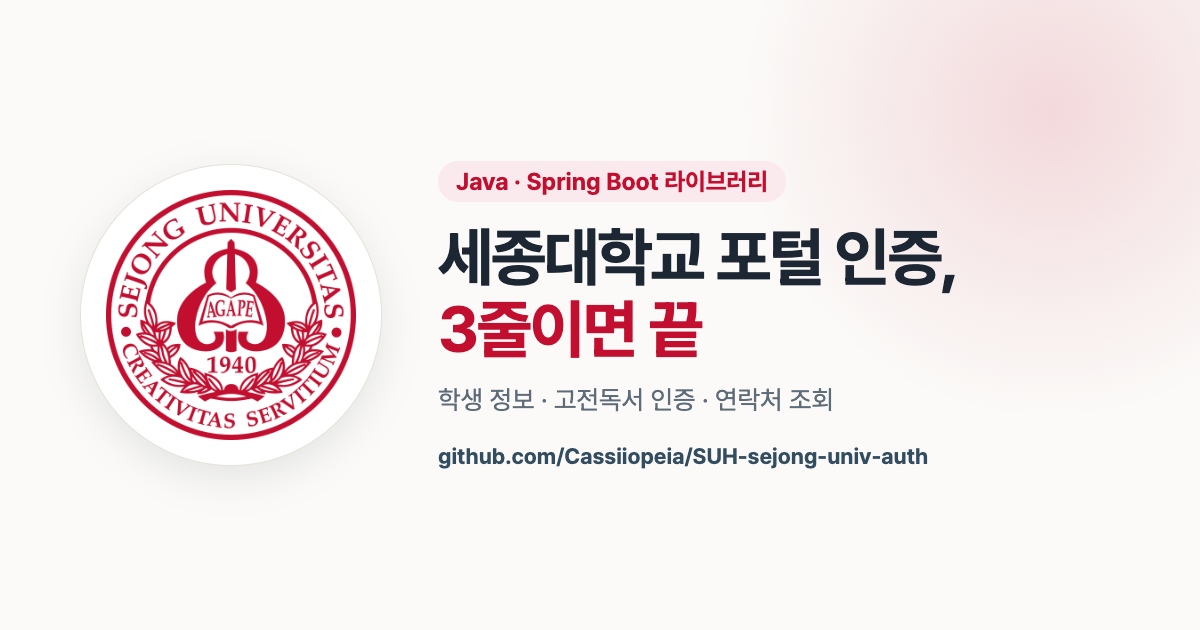
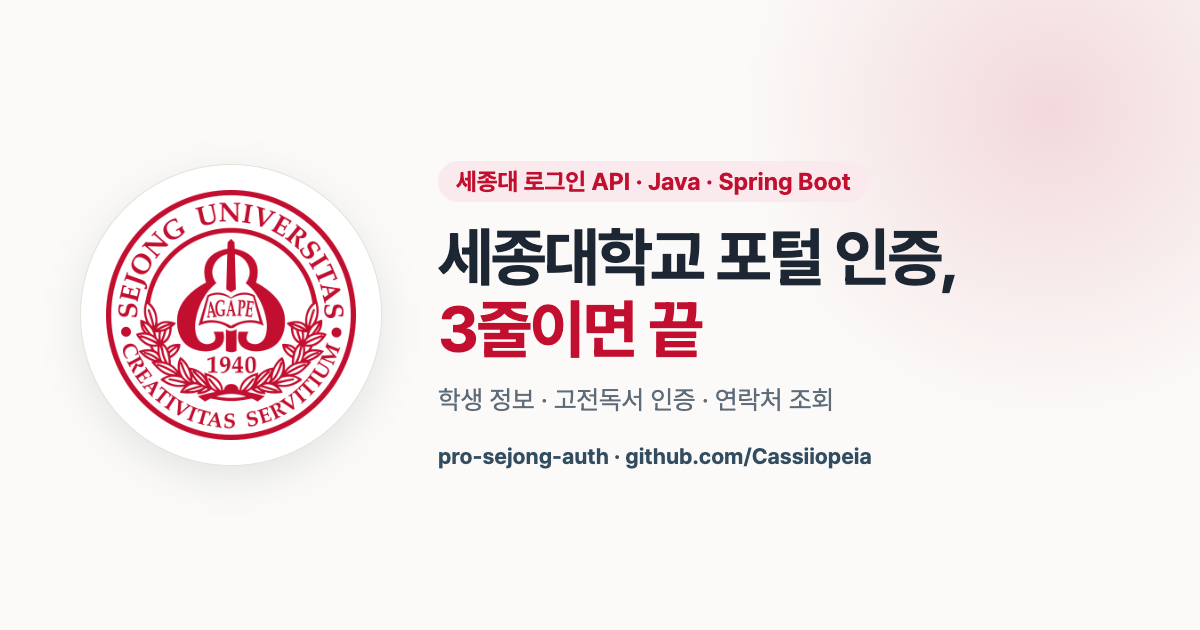
레포 이름 pro-sejong-auth 로 변경과 SEO 정비 : docs : 레포 주소·Pages 주소 갱신, README 제목에 세종대 로그인 API 검색어 반영, 공유 이미지 재생성, POM url/scm 갱신 https://github.com/Cassiiopeia/pro-sejong-auth/issues/22

Changed region(s): [[0.37, 0.6937, 0.7708, 0.754], [0.37, 0.2714, 0.7092, 0.3016]]

diff --git a/SECURITY.md b/SECURITY.md
@@ -12,8 +12,8 @@ Only the latest released version (see the Nexus badge in the [README](README.md)
 
 **Do not open a public issue.** Report privately through GitHub:
 
-1. Go to the [Security tab](https://github.com/Cassiiopeia/SUH-sejong-univ-auth/security) of this repository
-2. Click **Report a vulnerability** ([direct link](https://github.com/Cassiiopeia/SUH-sejong-univ-auth/security/advisories/new))
+1. Go to the [Security tab](https://github.com/Cassiiopeia/pro-sejong-auth/security) of this repository
+2. Click **Report a vulnerability** ([direct link](https://github.com/Cassiiopeia/pro-sejong-auth/security/advisories/new))
 3. Describe the issue, affected version and steps to reproduce
 
 Never include real student IDs, passwords or other personal data in a report. Use placeholders.
@@ -33,7 +33,7 @@ Out of scope: vulnerabilities in the Sejong University portal itself. Report tho
 이 라이브러리는 세종대 포털 비밀번호를 다루므로 보안 제보를 중요하게 처리합니다.
 
 - **지원 버전**: 가장 최근 배포 버전만 보안 수정을 받습니다.
-- **신고 방법**: 공개 이슈로 올리지 말고 이 레포의 [Security 탭](https://github.com/Cassiiopeia/SUH-sejong-univ-auth/security)에서 **Report a vulnerability**([바로가기](https://github.com/Cassiiopeia/SUH-sejong-univ-auth/security/advisories/new))로 비공개 신고해 주세요. 영향 버전과 재현 방법을 적어 주세요.
+- **신고 방법**: 공개 이슈로 올리지 말고 이 레포의 [Security 탭](https://github.com/Cassiiopeia/pro-sejong-auth/security)에서 **Report a vulnerability**([바로가기](https://github.com/Cassiiopeia/pro-sejong-auth/security/advisories/new))로 비공개 신고해 주세요. 영향 버전과 재현 방법을 적어 주세요.
 - 실제 학번, 비밀번호, 개인정보는 절대 넣지 말고 예시값을 쓰세요.
 - 7일 안에 첫 답변을 드립니다. 수정이 배포되면 제보자를 밝혀 공지합니다(원하면 익명).
 - **범위**: 이 라이브러리 코드(로그, 예외, 결과를 통한 비밀번호나 개인정보 노출, 안전하지 않은 TLS 처리, 호출 간 세션 혼선 등). 세종대 포털 자체의 취약점은 학교에 신고해 주세요.

diff --git a/README.md b/README.md
@@ -2,9 +2,11 @@
 
 <img src="docs/assets/sejong-seal.png" alt="Sejong University seal" width="120">
 
-# SUH Sejong Univ Auth
+# pro-sejong-auth
 
-**Sejong University portal authentication for Spring Boot, in three lines of Java**
+**Sejong University login API for Java and Spring Boot: verify students in three lines**
+
+<sub>세종대 로그인 API · 세종대학교 포털 인증 · 학번 인증 라이브러리</sub>
 
 English | [한국어](README.ko.md)
 
@@ -16,7 +18,7 @@ English | [한국어](README.ko.md)
 [![Spring Boot](https://img.shields.io/badge/Spring%20Boot-3.x-324D60)](https://spring.io/projects/spring-boot)
 [![License: MIT](https://img.shields.io/badge/License-MIT-324D60)](LICENSE)
 
-### [▶ Try it live in your browser](https://cassiiopeia.github.io/SUH-sejong-univ-auth/#demo)
+### [▶ Try it live in your browser](https://cassiiopeia.github.io/pro-sejong-auth/#demo)
 
 </div>
 
@@ -33,7 +35,7 @@ result.getMajor();   // "컴퓨터공학과"
 ```
 
 <p align="center">
-  <a href="https://cassiiopeia.github.io/SUH-sejong-univ-auth/#demo">
+  <a href="https://cassiiopeia.github.io/pro-sejong-auth/#demo">
     <img src="docs/assets/demo-en-dark.png" alt="Live authentication demo on the project page" width="820">
   </a>
   <br>
@@ -241,8 +243,8 @@ No. It is a personal open-source project by a Sejong student and is not affiliat
 <details>
 <summary><b>Authentication suddenly fails</b></summary>
 
-Try the [demo](https://cassiiopeia.github.io/SUH-sejong-univ-auth/#demo) first. If the demo also fails, the portal has probably changed.
-Please open an [issue](https://github.com/Cassiiopeia/SUH-sejong-univ-auth/issues) with the error code.
+Try the [demo](https://cassiiopeia.github.io/pro-sejong-auth/#demo) first. If the demo also fails, the portal has probably changed.
+Please open an [issue](https://github.com/Cassiiopeia/pro-sejong-auth/issues) with the error code.
 </details>
 
 ## Contributing

diff --git a/README.ko.md b/README.ko.md
@@ -2,9 +2,9 @@
 
 <img src="docs/assets/sejong-seal.png" alt="Sejong University seal" width="120">
 
-# SUH Sejong Univ Auth
+# pro-sejong-auth
 
-**세종대학교 포털 인증을 3줄로 끝내는 Spring Boot용 Java 라이브러리**
+**세종대 로그인 API: 세종대학교 포털 인증을 3줄로 끝내는 Java·Spring Boot 라이브러리**
 
 [English](README.md) | 한국어
 
@@ -13,7 +13,7 @@
 [![Spring Boot](https://img.shields.io/badge/Spring%20Boot-3.x-324D60)](https://spring.io/projects/spring-boot)
 [![License: MIT](https://img.shields.io/badge/License-MIT-324D60)](LICENSE)
 
-### [▶ 브라우저에서 바로 체험하기](https://cassiiopeia.github.io/SUH-sejong-univ-auth/#demo)
+### [▶ 브라우저에서 바로 체험하기](https://cassiiopeia.github.io/pro-sejong-auth/#demo)
 
 </div>
 
@@ -29,7 +29,7 @@ result.getMajor();   // "컴퓨터공학과"
 ```
 
 <p align="center">
-  <a href="https://cassiiopeia.github.io/SUH-sejong-univ-auth/#demo">
+  <a href="https://cassiiopeia.github.io/pro-sejong-auth/#demo">
     <img src="docs/assets/demo-ko.png" alt="소개 페이지의 실시간 인증 데모" width="820">
   </a>
   <br>
@@ -237,8 +237,8 @@ sejong:
 <details>
 <summary><b>인증이 갑자기 실패해요</b></summary>
 
-[데모](https://cassiiopeia.github.io/SUH-sejong-univ-auth/#demo)로 먼저 확인해 보세요. 데모도 실패하면 포털 쪽이 바뀌었을 가능성이 높습니다.
-[이슈](https://github.com/Cassiiopeia/SUH-sejong-univ-auth/issues)에 에러 코드와 함께 남겨 주세요.
+[데모](https://cassiiopeia.github.io/pro-sejong-auth/#demo)로 먼저 확인해 보세요. 데모도 실패하면 포털 쪽이 바뀌었을 가능성이 높습니다.
+[이슈](https://github.com/Cassiiopeia/pro-sejong-auth/issues)에 에러 코드와 함께 남겨 주세요.
 </details>
 
 ## 기여하기

diff --git a/docs/projectops/issue/20261022_22_레포_이름_pro_sejong_auth_로_변경과_SEO_정비.md b/docs/projectops/issue/20261022_22_레포_이름_pro_sejong_auth_로_변경과_SEO_정비.md
@@ -1,0 +1,26 @@
+📝 현재 문제점
+---
+
+- 레포 이름 `SUH-sejong-univ-auth`가 사용자의 다른 레포 이름 규칙(`pro-` 접두사)과 맞지 않음
+- 검색 노출 정비가 부족함: 페이지 제목·설명이 검색어("세종대 로그인 API", "Sejong University login Java" 등)를 충분히 담지 못하고, 언어별 대체 주소(hreflang), robots.txt, 구조화 데이터 보강이 없음
+
+🛠 해결 방안 / 제안 기능
+---
+
+- 레포 이름을 `pro-sejong-auth`로 변경
+- README, CONTRIBUTING, SECURITY, 빌드 설정(POM url, scm), GitHub Pages의 레포 주소를 새 이름으로 갱신, About 홈페이지 주소 변경
+- 라이브러리 좌표 `kr.suhsaechan:sejong-univ-auth`는 그대로 유지 (기존 사용자 영향 없음)
+- SEO 정비: 검색어 중심 제목·설명(한/영), canonical, hreflang, 구조화 데이터(SoftwareSourceCode, FAQ), sitemap, robots.txt, 레포 About·topics 보강
+
+⚙ 작업 내용
+---
+
+- GitHub 레포 이름 변경과 링크 갱신
+- Pages SEO 메타·구조화 데이터·sitemap·robots 정비
+- 변경 후 Pages, 데모, 이미지, 구조화 데이터 동작 확인
+- 참고: 옛 Pages 주소(cassiiopeia.github.io/SUH-sejong-univ-auth)는 GitHub이 넘겨주지 않아 404가 됨
+
+🙋♂ 담당자
+---
+
+- 백엔드: Cassiiopeia

diff --git a/CONTRIBUTING.md b/CONTRIBUTING.md
@@ -9,7 +9,7 @@ Please do not report security vulnerabilities in public issues. Use the private 
 ## Start with an issue
 
 - Bugs: include the error code (`SejongAuthException.getErrorCode()`) and the method you called. Never post student IDs, passwords or other personal data.
-- If authentication broke because the portal changed, first check whether the [live demo](https://cassiiopeia.github.io/SUH-sejong-univ-auth/#demo) reproduces it.
+- If authentication broke because the portal changed, first check whether the [live demo](https://cassiiopeia.github.io/pro-sejong-auth/#demo) reproduces it.
 - For larger changes, agree on the direction in an issue before opening a PR.
 
 ## Development setup

diff --git a/CONTRIBUTING.ko.md b/CONTRIBUTING.ko.md
@@ -9,7 +9,7 @@
 ## 이슈 먼저
 
 - 버그: 에러 코드(`SejongAuthException.getErrorCode()`)와 사용한 메서드를 적어 주세요. 학번·비밀번호·개인정보는 절대 올리지 마세요.
-- 포털이 바뀌어 인증이 깨졌다면 [데모](https://cassiiopeia.github.io/SUH-sejong-univ-auth/#demo)로 먼저 재현 여부를 확인해 주세요.
+- 포털이 바뀌어 인증이 깨졌다면 [데모](https://cassiiopeia.github.io/pro-sejong-auth/#demo)로 먼저 재현 여부를 확인해 주세요.
 - 큰 변경은 PR 전에 이슈로 방향을 맞춥니다.
 
 ## 개발 환경
